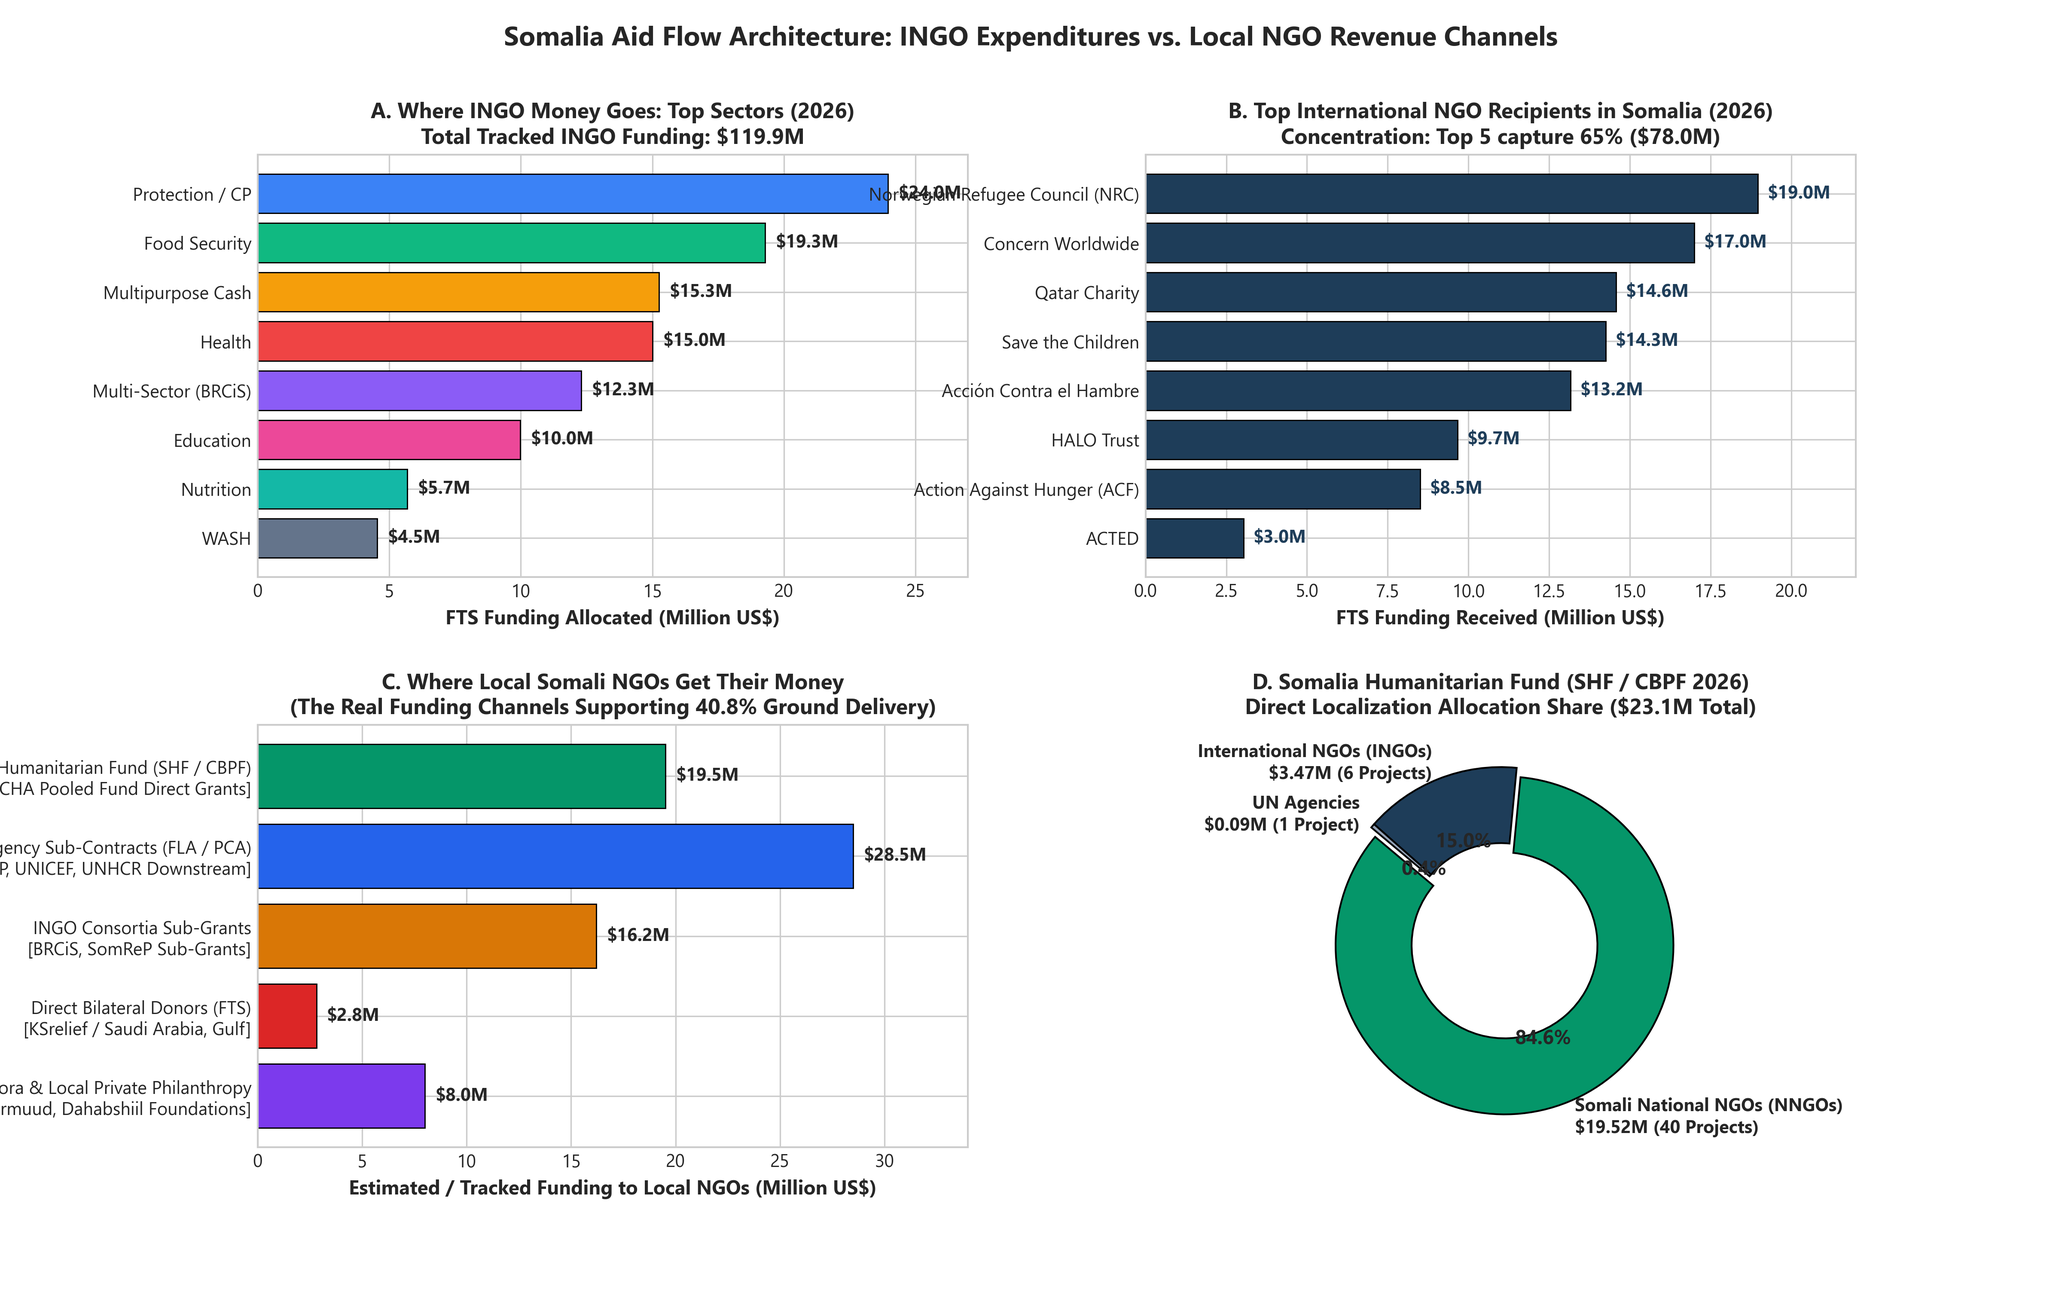
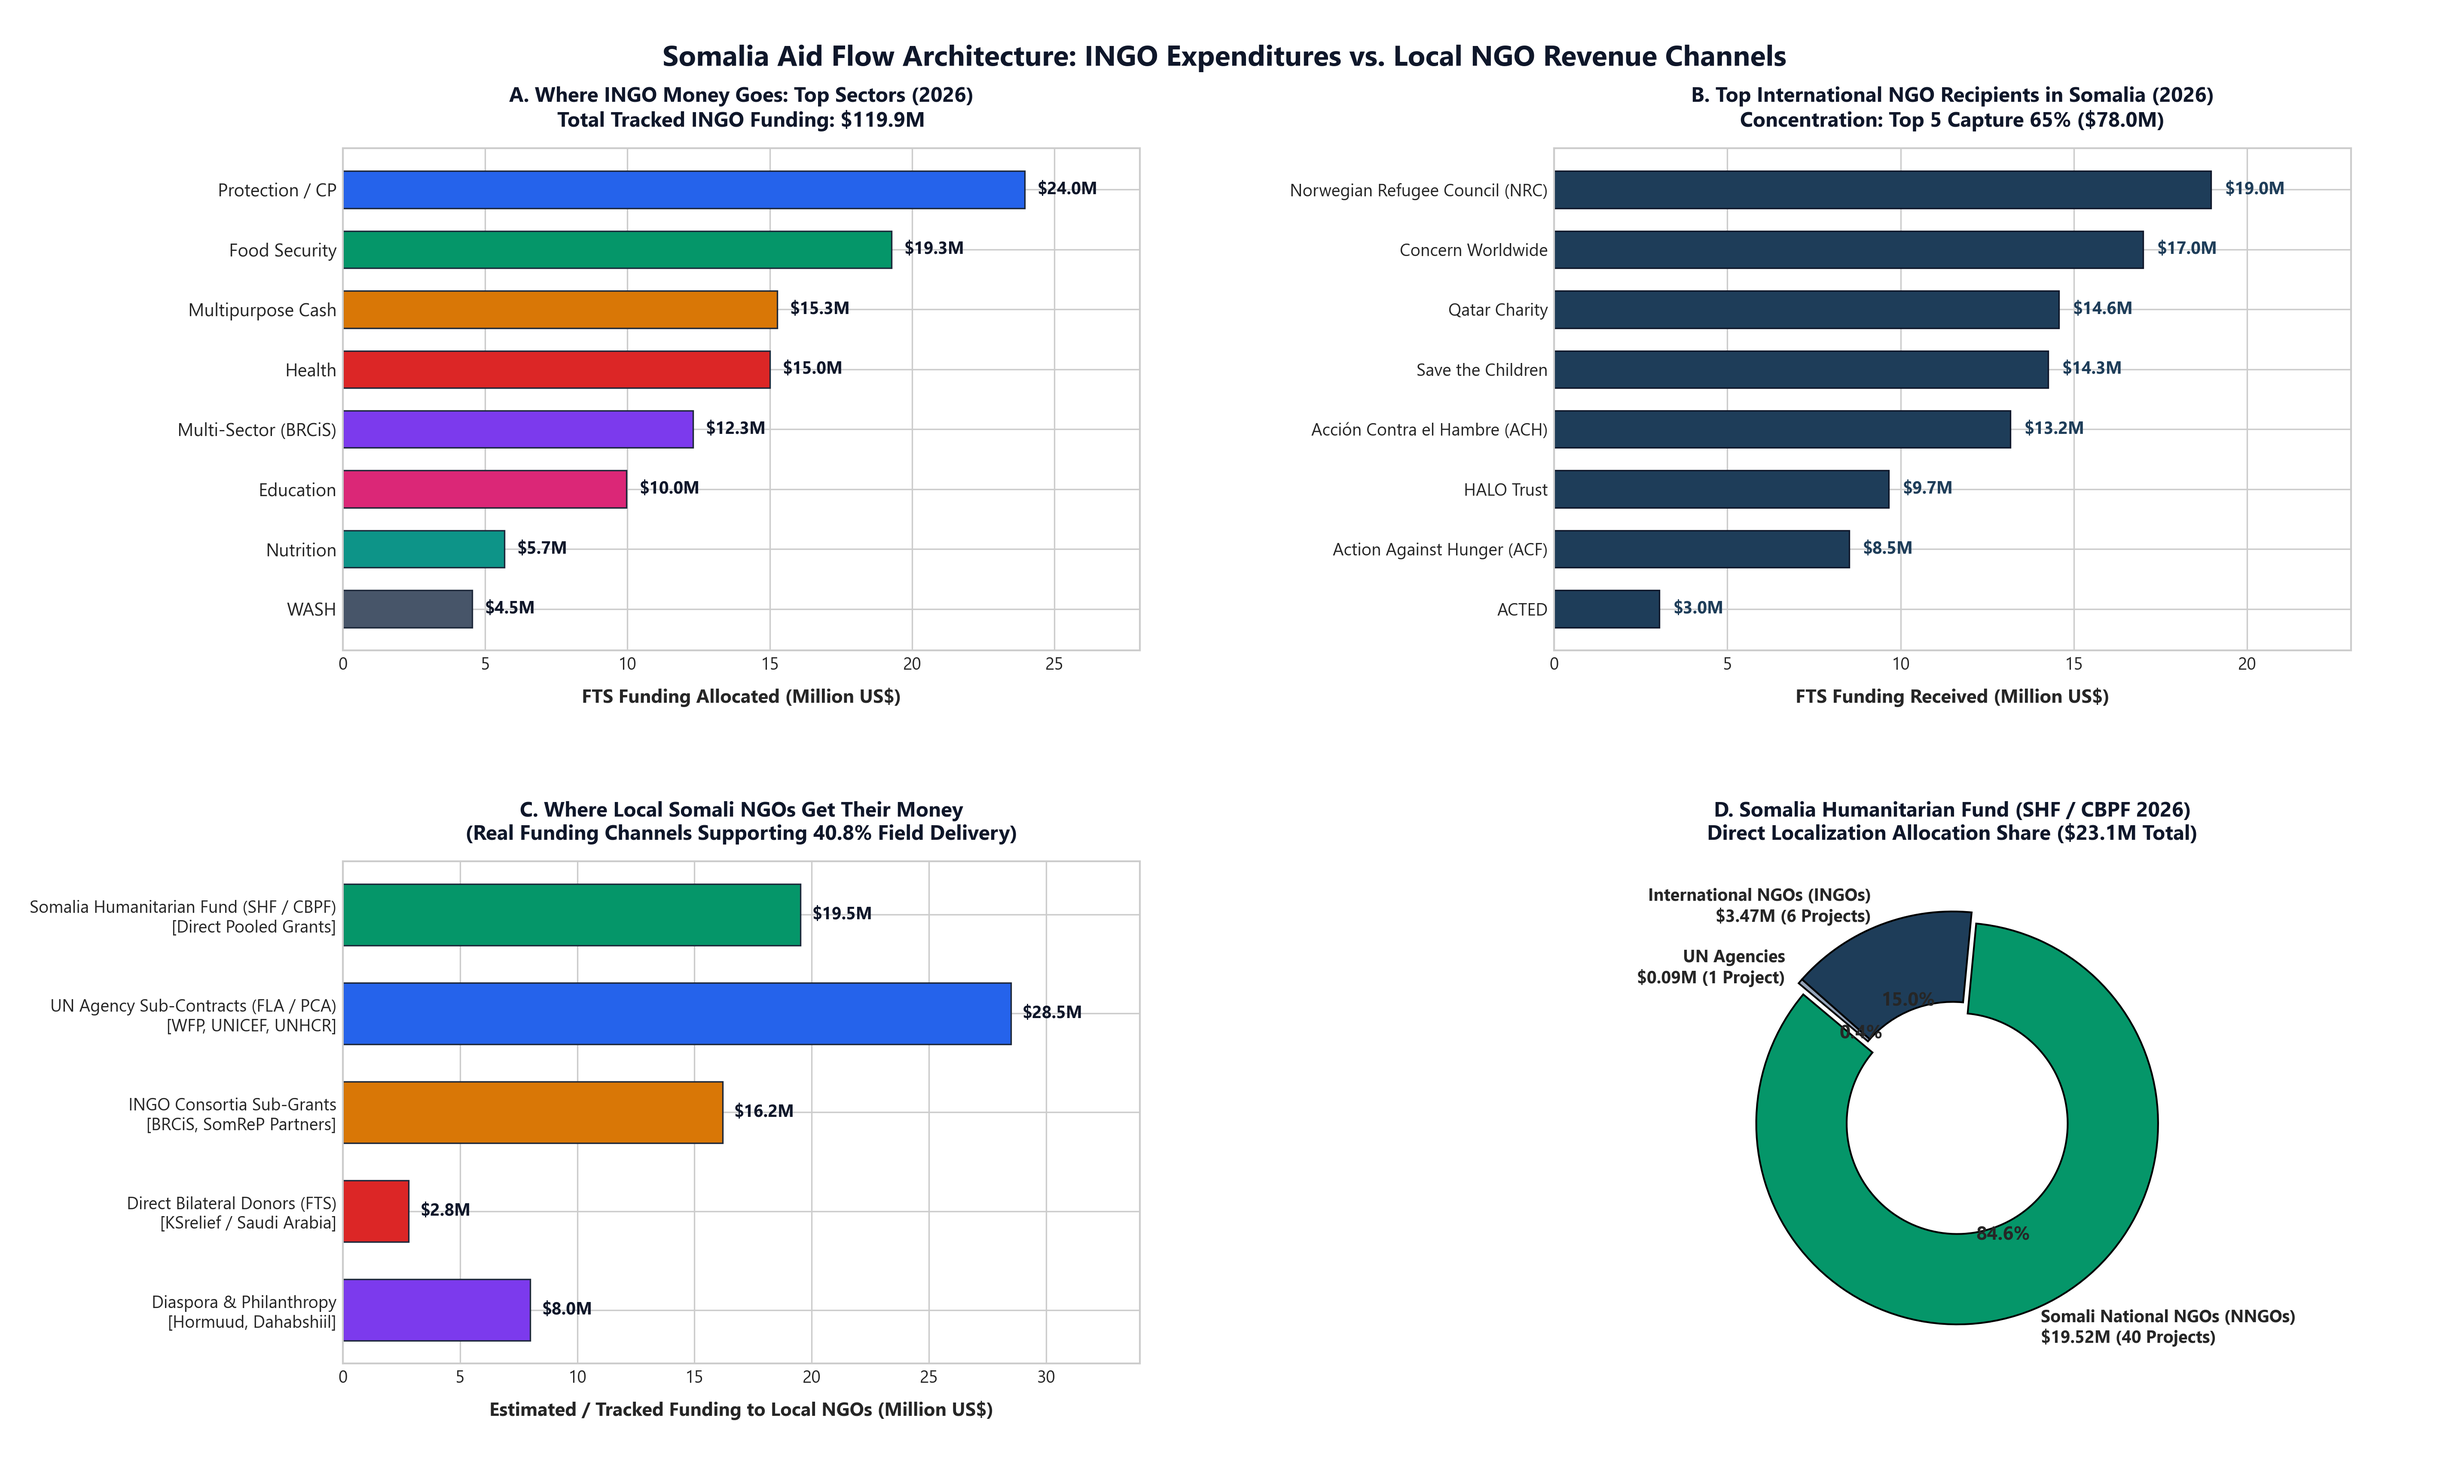
fix(viz): expand horizontal and vertical margins in funding_flow_mechanics.png to eliminate text overlap

diff --git a/generate_flow_analysis.py b/generate_flow_analysis.py
@@ -14,79 +14,120 @@ plt.rcParams['font.sans-serif'] = 'Segoe UI', 'DejaVu Sans', 'Arial'
 
 # ==============================================================
 # CHART: WHERE DOES INGO MONEY GO & WHERE DO LOCAL NGOS GET MONEY
+# (Spacious, high-res layout with zero text overlaps)
 # ==============================================================
-fig = plt.figure(figsize=(16, 10), dpi=300)
-gs = fig.add_gridspec(2, 2, hspace=0.35, wspace=0.25)
+fig = plt.figure(figsize=(19, 11.5), dpi=300)
 
+# Main Super Title with generous clearance
+plt.suptitle('Somalia Aid Flow Architecture: INGO Expenditures vs. Local NGO Revenue Channels', 
+             fontsize=16, fontweight='bold', y=0.97, color='#0f172a')
+
+# Dedicated GridSpec with spacious wspace and hspace margins
+gs = fig.add_gridspec(2, 2, hspace=0.42, wspace=0.52, top=0.90, bottom=0.08, left=0.14, right=0.96)
+
+# --------------------------------------------------------------
 # 1. Top Left: Where INGO Money Goes (By Sector)
+# --------------------------------------------------------------
 ax1 = fig.add_subplot(gs[0, 0])
 ingo_sectors = ['Protection / CP', 'Food Security', 'Multipurpose Cash', 'Health', 'Multi-Sector (BRCiS)', 'Education', 'Nutrition', 'WASH']
 ingo_sec_amounts = [23.96, 19.28, 15.26, 15.01, 12.30, 9.97, 5.68, 4.54] # Million USD
-colors_sec = ['#3b82f6', '#10b981', '#f59e0b', '#ef4444', '#8b5cf6', '#ec4899', '#14b8a6', '#64748b']
+colors_sec = ['#2563eb', '#059669', '#d97706', '#dc2626', '#7c3aed', '#db2777', '#0d9488', '#475569']
 
-bars1 = ax1.barh(ingo_sectors[::-1], ingo_sec_amounts[::-1], color=colors_sec[::-1], edgecolor='black', linewidth=0.7)
-ax1.set_xlabel('FTS Funding Allocated (Million US$)', fontweight='bold', fontsize=11)
-ax1.set_title('A. Where INGO Money Goes: Top Sectors (2026)\nTotal Tracked INGO Funding: $119.9M', fontweight='bold', fontsize=12)
+bars1 = ax1.barh(ingo_sectors[::-1], ingo_sec_amounts[::-1], color=colors_sec[::-1], edgecolor='#1e293b', linewidth=0.8, height=0.62)
+ax1.set_xlabel('FTS Funding Allocated (Million US$)', fontweight='bold', fontsize=10.5, labelpad=8)
+ax1.set_title('A. Where INGO Money Goes: Top Sectors (2026)\nTotal Tracked INGO Funding: $119.9M', fontweight='bold', fontsize=11.5, pad=12, color='#0f172a')
+ax1.tick_params(axis='y', labelsize=10)
+ax1.tick_params(axis='x', labelsize=9.5)
+ax1.set_xlim(0, 28)
+
 for bar in bars1:
     w = bar.get_width()
-    ax1.text(w + 0.4, bar.get_y() + bar.get_height()/2, f"${w:.1f}M", va='center', ha='left', fontweight='bold', fontsize=10)
-ax1.set_xlim(0, 27)
+    y = bar.get_y() + bar.get_height() / 2
+    ax1.text(w + 0.45, y, f"${w:.1f}M", va='center', ha='left', fontweight='bold', fontsize=9.5, color='#0f172a')
 
+# --------------------------------------------------------------
 # 2. Top Right: Top INGO Recipients (Who gets the INGO money)
+# --------------------------------------------------------------
 ax2 = fig.add_subplot(gs[0, 1])
-top_ingos = ['Norwegian Refugee Council (NRC)', 'Concern Worldwide', 'Qatar Charity', 'Save the Children', 'Acción Contra el Hambre', 'HALO Trust', 'Action Against Hunger (ACF)', 'ACTED']
+top_ingos = [
+    'Norwegian Refugee Council (NRC)', 
+    'Concern Worldwide', 
+    'Qatar Charity', 
+    'Save the Children', 
+    'Acción Contra el Hambre (ACH)', 
+    'HALO Trust', 
+    'Action Against Hunger (ACF)', 
+    'ACTED'
+]
 top_ingo_amts = [18.96, 17.00, 14.57, 14.26, 13.17, 9.66, 8.51, 3.04]
 
-bars2 = ax2.barh(top_ingos[::-1], top_ingo_amts[::-1], color='#1e3d59', edgecolor='black', linewidth=0.7)
-ax2.set_xlabel('FTS Funding Received (Million US$)', fontweight='bold', fontsize=11)
-ax2.set_title('B. Top International NGO Recipients in Somalia (2026)\nConcentration: Top 5 capture 65% ($78.0M)', fontweight='bold', fontsize=12)
+bars2 = ax2.barh(top_ingos[::-1], top_ingo_amts[::-1], color='#1e3d59', edgecolor='#0f172a', linewidth=0.8, height=0.62)
+ax2.set_xlabel('FTS Funding Received (Million US$)', fontweight='bold', fontsize=10.5, labelpad=8)
+ax2.set_title('B. Top International NGO Recipients in Somalia (2026)\nConcentration: Top 5 Capture 65% ($78.0M)', fontweight='bold', fontsize=11.5, pad=12, color='#0f172a')
+ax2.tick_params(axis='y', labelsize=9.5)
+ax2.tick_params(axis='x', labelsize=9.5)
+ax2.set_xlim(0, 23)
+
 for bar in bars2:
     w = bar.get_width()
-    ax2.text(w + 0.3, bar.get_y() + bar.get_height()/2, f"${w:.1f}M", va='center', ha='left', fontweight='bold', fontsize=10, color='#1e3d59')
-ax2.set_xlim(0, 22)
+    y = bar.get_y() + bar.get_height() / 2
+    ax2.text(w + 0.4, y, f"${w:.1f}M", va='center', ha='left', fontweight='bold', fontsize=9.5, color='#1e3d59')
 
+# --------------------------------------------------------------
 # 3. Bottom Left: Where Local NGOs Get Their Money (Funding Sources)
+# --------------------------------------------------------------
 ax3 = fig.add_subplot(gs[1, 0])
 local_sources = [
-    'Somalia Humanitarian Fund (SHF / CBPF)\n[OCHA Pooled Fund Direct Grants]',
-    'UN Agency Sub-Contracts (FLA / PCA)\n[WFP, UNICEF, UNHCR Downstream]',
-    'INGO Consortia Sub-Grants\n[BRCiS, SomReP Sub-Grants]',
-    'Direct Bilateral Donors (FTS)\n[KSrelief / Saudi Arabia, Gulf]',
-    'Diaspora & Local Private Philanthropy\n[Hormuud, Dahabshiil Foundations]'
+    'Somalia Humanitarian Fund (SHF / CBPF)\n[Direct Pooled Grants]',
+    'UN Agency Sub-Contracts (FLA / PCA)\n[WFP, UNICEF, UNHCR]',
+    'INGO Consortia Sub-Grants\n[BRCiS, SomReP Partners]',
+    'Direct Bilateral Donors (FTS)\n[KSrelief / Saudi Arabia]',
+    'Diaspora & Philanthropy\n[Hormuud, Dahabshiil]'
 ]
-# Estimated & empirical breakdown of local NGO revenue pool in Somalia (~$65M-$80M total)
 local_amounts = [19.52, 28.50, 16.20, 2.81, 8.00] # in Million USD
 colors_sources = ['#059669', '#2563eb', '#d97706', '#dc2626', '#7c3aed']
 
-bars3 = ax3.barh(local_sources[::-1], local_amounts[::-1], color=colors_sources[::-1], edgecolor='black', linewidth=0.7)
-ax3.set_xlabel('Estimated / Tracked Funding to Local NGOs (Million US$)', fontweight='bold', fontsize=11)
-ax3.set_title('C. Where Local Somali NGOs Get Their Money\n(The Real Funding Channels Supporting 40.8% Ground Delivery)', fontweight='bold', fontsize=12)
-for bar in bars3:
-    w = bar.get_width()
-    ax3.text(w + 0.5, bar.get_y() + bar.get_height()/2, f"${w:.1f}M", va='center', ha='left', fontweight='bold', fontsize=10)
+bars3 = ax3.barh(local_sources[::-1], local_amounts[::-1], color=colors_sources[::-1], edgecolor='#1e293b', linewidth=0.8, height=0.62)
+ax3.set_xlabel('Estimated / Tracked Funding to Local NGOs (Million US$)', fontweight='bold', fontsize=10.5, labelpad=8)
+ax3.set_title('C. Where Local Somali NGOs Get Their Money\n(Real Funding Channels Supporting 40.8% Field Delivery)', fontweight='bold', fontsize=11.5, pad=12, color='#0f172a')
+ax3.tick_params(axis='y', labelsize=9.5)
+ax3.tick_params(axis='x', labelsize=9.5)
 ax3.set_xlim(0, 34)
 
+for bar in bars3:
+    w = bar.get_width()
+    y = bar.get_y() + bar.get_height() / 2
+    ax3.text(w + 0.5, y, f"${w:.1f}M", va='center', ha='left', fontweight='bold', fontsize=9.5, color='#0f172a')
+
+# --------------------------------------------------------------
 # 4. Bottom Right: The SHF Localization Breakthrough (2026 Allocation Shares)
+# --------------------------------------------------------------
 ax4 = fig.add_subplot(gs[1, 1])
 shf_shares = [84.6, 15.0, 0.4]
-shf_labels = ['Somali National NGOs (NNGOs)\n$19.52M (40 Projects)', 'International NGOs (INGOs)\n$3.47M (6 Projects)', 'UN Agencies\n$0.09M (1 Project)']
+shf_labels = [
+    'Somali National NGOs (NNGOs)\n$19.52M (40 Projects)', 
+    'International NGOs (INGOs)\n$3.47M (6 Projects)', 
+    'UN Agencies\n$0.09M (1 Project)'
+]
 colors_shf = ['#059669', '#1e3d59', '#94a3b8']
 
 wedges, texts, autotexts = ax4.pie(shf_shares, labels=shf_labels, autopct='%1.1f%%',
                                     startangle=140, colors=colors_shf, explode=(0.06, 0, 0),
                                     wedgeprops=dict(width=0.45, edgecolor='black', linewidth=1),
-                                    textprops=dict(fontweight='bold', fontsize=10))
+                                    textprops=dict(fontweight='bold', fontsize=9.5))
 
 for autotext in autotexts:
-    autotext.set_fontsize(11)
+    autotext.set_fontsize(10.5)
     autotext.set_fontweight('bold')
 
-ax4.set_title('D. Somalia Humanitarian Fund (SHF / CBPF 2026)\nDirect Localization Allocation Share ($23.1M Total)', fontweight='bold', fontsize=12)
+ax4.set_title('D. Somalia Humanitarian Fund (SHF / CBPF 2026)\nDirect Localization Allocation Share ($23.1M Total)', fontweight='bold', fontsize=11.5, pad=12, color='#0f172a')
 
-plt.suptitle('Somalia Aid Flow Architecture: INGO Expenditures vs. Local NGO Revenue Channels', fontsize=15, fontweight='bold', y=0.98)
-plt.tight_layout()
+# Save updated high-DPI figure
 plt.savefig('flow_images/funding_flow_mechanics.png')
 plt.savefig(os.path.join(artifact_flow_dir, 'funding_flow_mechanics.png'))
 plt.close()
 
-print("Flow mechanics chart generated successfully!")
+if os.path.exists('flow_images/funding_flow_mechanics_test.png'):
+    os.remove('flow_images/funding_flow_mechanics_test.png')
+
+print("Flow mechanics chart regenerated successfully with zero overlaps!")
